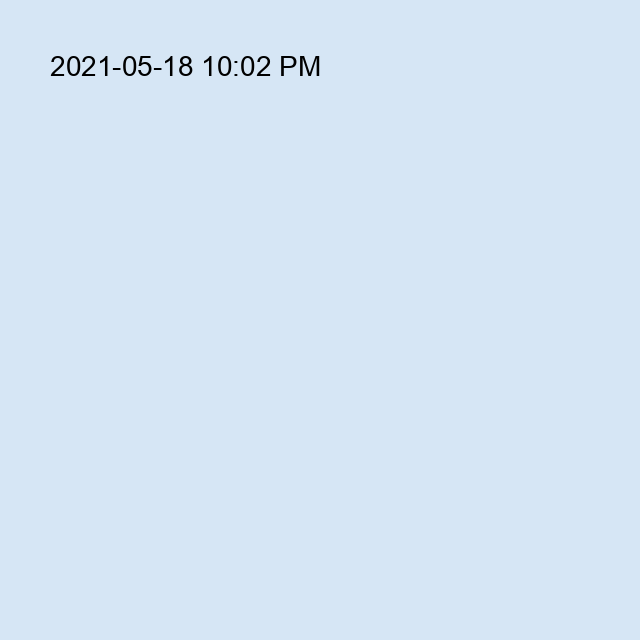
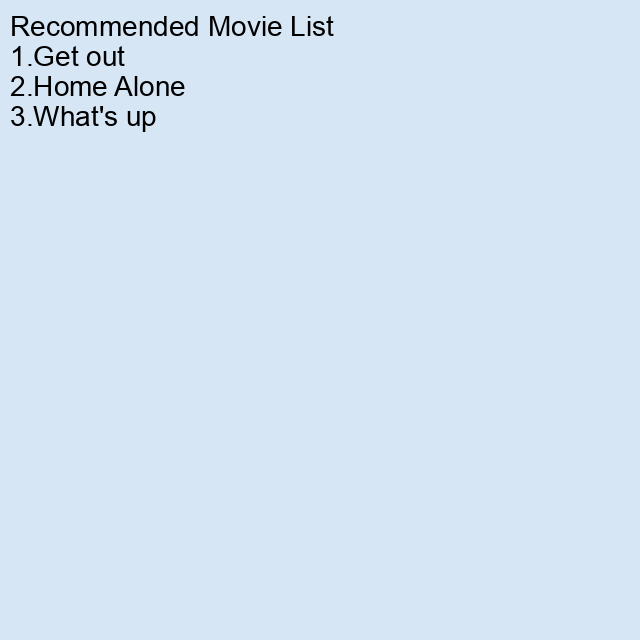
spinner추가

Changed region(s): [[0.0, 0.0312, 0.5312, 0.2188]]

diff --git a/pages/templates/loading.html b/pages/templates/loading.html
@@ -12,33 +12,32 @@
     <title>Document</title>
 </head>
 <body>
+    {{ age }}
     <div id="loading">
-       <img src="/movie_result.png" alt="" >
+       <img src="static/spinner.gif" alt="" >
     </div>
 </body>
 <style>
     #loading{
-        padding-top: 40;
-        margin-left: 10;
+        padding-top: 100;
+        /*margin-left: 10;*/
+        text-align: center;
     }
     img{
-     position: absolute;
+     /*position: absolute;*/
  
-     height: 85%;
-     text-align:center;
+     height: 70%;
+     /*text-align:center;*/
     }
     
 </style>
  
 <script>
-   
-    
- 
     
     $(document).ready(function(){
         setTimeout(function(){
-            if (window.location == 'http://127.0.0.1:8000/' ) {
-            window.location.href='http://127.0.0.1:8000/output';}}, 1000)
+            if (window.location == 'http://27.96.134.7:8000/' ) {
+            window.location.href='http://27.96.134.7:8000/output';}}, 1000)
         })
        
 </script>

diff --git a/pages/templates/input.html b/pages/templates/input.html
@@ -38,12 +38,12 @@
 		<div class="form-group">
 			<form action="." method="POST">
 				{% csrf_token %}
-				<h4 class="explain">>> 성별을 입력하세요</h4>
+				<h4 class="explain">>> <strong>성별</strong>을 입력하세요</h4>
 				<div class="fieldWrapper">
 					{{ form.sex }}
 				</div>
 				<br><br>
-				<h4 class="explain">>> 나이를 입력하세요</h4>
+				<h4 class="explain">>> <strong>나이</strong>를 입력하세요</h4>
 				<div class="fieldWrapper">
 					{{ form.age }}
 				</div>
@@ -57,7 +57,7 @@
 					</div>
 					{% endif %}
 				</div>
-				<h4 class="explain">>> 선호하는 장르 2개를 고르세요</h4>
+				<h4 class="explain">>> 선호하는 <strong>장르 2개</strong>를 고르세요</h4>
 				<div class="fieldWrapper">
 					{{ form.genre.0 }}&nbsp;&nbsp;
 					{{ form.genre.1 }}&nbsp;&nbsp;

diff --git a/pages/templates/search.html b/pages/templates/search.html
@@ -62,11 +62,6 @@
         {% endfor %}
         <br>
         <br>
-        <span>Share on </span>
-        {% load social_share %}
-        <button type="button" class="btn btn-outline-primary">{% post_to_facebook post.get_absolute_url "Facebook" %}</button>
-        <button type="button" class="btn btn-outline-primary">{% post_to_twitter "text" post.get_absolute_url "Twitter" %}</button>
-        <button type="submit" class="btn btn-primary btn-lg" onclick="location.href='/'">Retry!</button>
     </div>
     <br>
     <br>

diff --git a/pages/templates/output.html b/pages/templates/output.html
@@ -55,7 +55,7 @@
             <a href="/static/movie_result.png" download="moviesajo.png" style="font-size: 22px;font-weight: bold">Click</a>
 
         </form>
-        <br>
+        <br><br>
         <button type="submit" class="btn btn-primary btn-lg" style="font-size: 22px;font-weight: bold" onclick="location.href='/'">Retry</button>
     </div>
 </body>

diff --git a/pages/views.py b/pages/views.py
@@ -102,6 +102,10 @@ def input(request):
                 res_data['age'] = age
                 res_data['sex'] = sex
                 res_data['genre'] = genre
+
+                request.session['age'] = age
+                request.session['sex'] = sex
+                request.session['genre'] = genre
                 return render(request, 'loading.html', res_data)
             else:
                 return render(request, 'input.html', {'form': form})
@@ -203,36 +207,34 @@ def make_image(message):
     image = Image.new('RGB', (W, H), color=bg_color)
     draw = ImageDraw.Draw(image)
 
+
     # Text wraper to handle long text
 # 40자를 넘어갈 경우 여러 줄로 나눔
-    lines = textwrap.wrap(message, width=40)
+#    lines = textwrap.wrap(message, width=40)
 
     # start position for text
-    x_text = 50
-    y_text = 50
+#    x_text = 50
+#    y_text = 50
 
     # 각 줄의 내용을 적음
-    for line in lines:
-        width, height = font.getsize(line)
-        draw.text((x_text, y_text), line, font=font, fill=font_color)
-        y_text += height
+#    for line in lines:
+#        width, height = font.getsize(line)
+#        draw.multiline_text((x_text, y_text), line, font=font, fill=font_color)
+#        y_text += height
+        
         # height는 글씨의 높이로, 한 줄 적고 나서 height만큼 아래에 다음 줄을 적음
-
+    draw.multiline_text((10,10),message, font=font, fill=font_color)
     # 안에 적은 내용을 파일 이름으로 저장
     #downloads_dir = glib.get_user_special_dir(glib.USER_DIRECTORY_DOWNLOAD)
     #path="C:/Users/{}/desktop".format(os.getlogin())
     image.save('./static/movie_result.png',format='PNG')
 
 def output(request):
-    msg="2021-05-18 10:02 PM"
+    msg="Recommended Movie List\n1.Get out\n2.Home Alone\n"+"3.What's up"
     make_image(msg)
-    #if(request.method == 'POST'):
-
-    return render(request, 'output.html')
-
-def f1(x):
-    return x[0]
-
-def loading(req):
-    print(req)
+    age = request.session['age']
+    sex = request.session['sex']
+    genre = request.session['genre']
+    print('here is output')
+    print('here is loading')
     return render(req, 'loading.html')

diff --git a/pages/forms.py b/pages/forms.py
@@ -28,9 +28,6 @@ class InputForm(forms.Form):
         #sex=data.get('sex')
         #age=data.get('age')
         genres=data.get('genre','')
-        print("################################")
-        print(genres)
-        print("##########################3")
         if (len(genres) != 2):
             
             raise ValidationError("오류: 장르를 2개 선택하세요!!")
